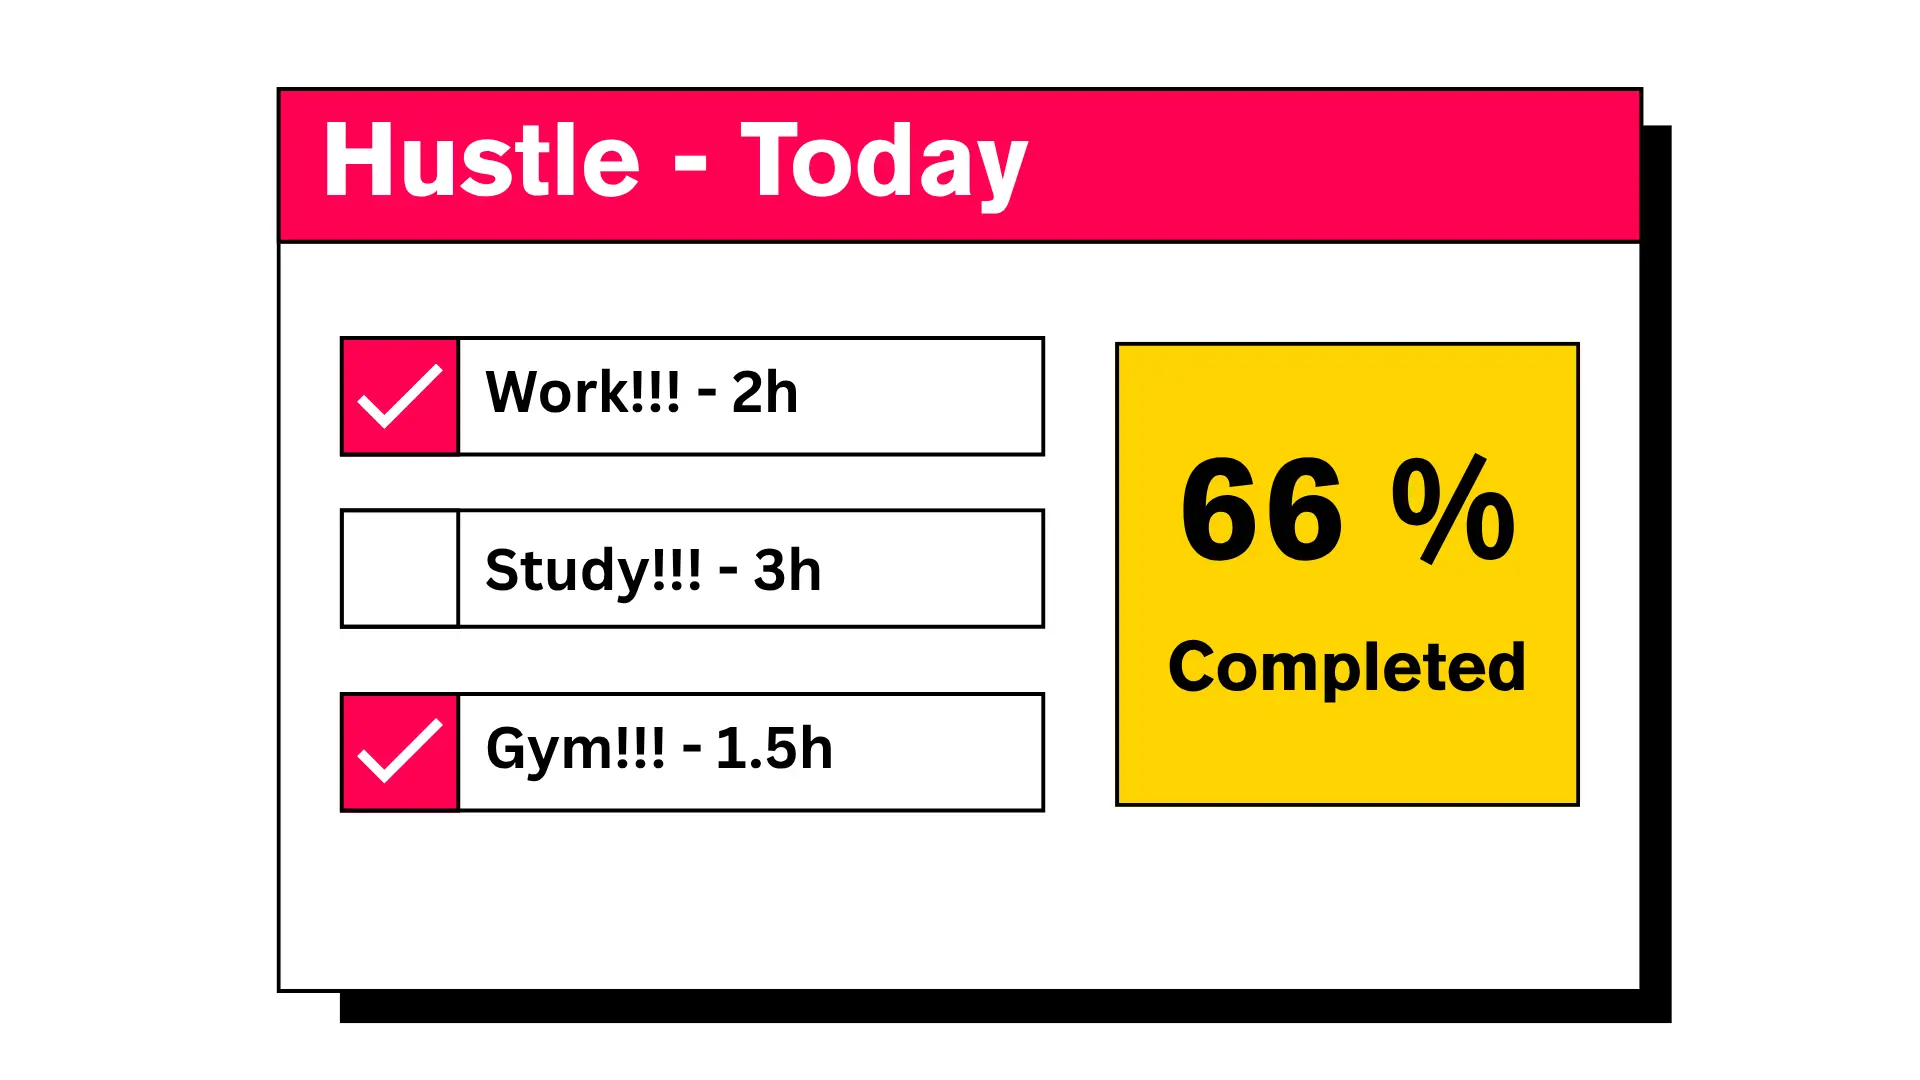
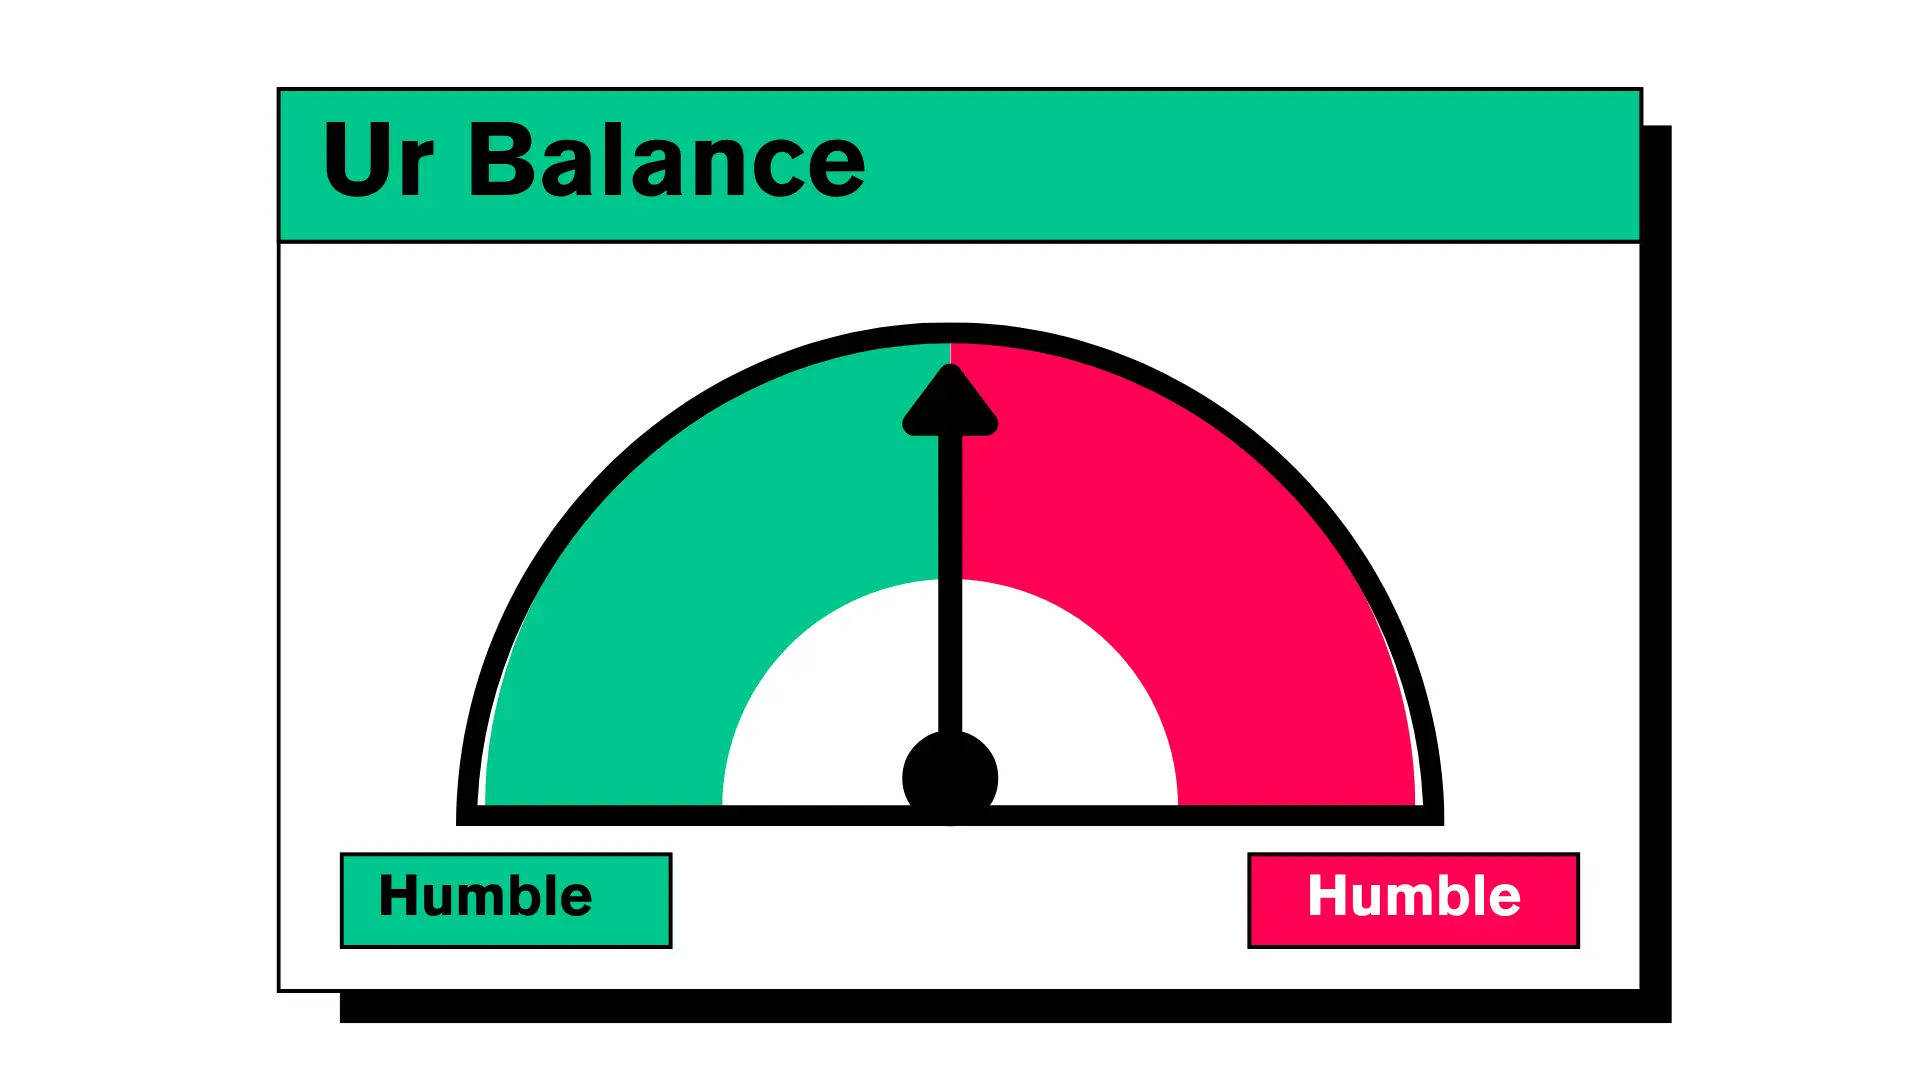
docs: tambah emoji di README, hapus em dash + commit perubahan tertunda
- README: emoji di semua heading section, ganti — jadi -
- hapus SVG default Next.js (file/globe/next/vercel/window)
- update icon.svg dan cover features 2.webp

diff --git a/README.md b/README.md
@@ -1,36 +1,36 @@
-# Purrpose
+# 🐾 Purrpose
 
 > Track your hustle. Honor your humble. Balance is the ultimate productivity hack.
 
 **Try it live:** [purrpose.mhmdfjr.com](https://purrpose.mhmdfjr.com)
 
 Purrpose is a gamified productivity web app. It splits your daily tasks into two
-categories — **Hustle** (work, study, build) and **Humble** (rest, reflection,
-recharge) — and rewards you for keeping them in **balance**, not for grinding
+categories - **Hustle** (work, study, build) and **Humble** (rest, reflection,
+recharge) - and rewards you for keeping them in **balance**, not for grinding
 yourself into the ground. Unfinished tasks are never punished; they simply roll
 over with a friendly nudge.
 
 ---
 
-## Screenshots
+## 📸 Screenshots
 
-### Home — your daily Hustle & Humble boards
+### 🏠 Home: your daily Hustle & Humble boards
 
 ![Purrpose Home page showing daily Hustle and Humble task boards](public/images/screenshot-home.webp)
 
-### Report — scores, charts & weekly balance
+### 📊 Report: scores, charts & weekly balance
 
 ![Purrpose Report page with score cards, charts and task breakdown](public/images/screenshot-report.webp)
 
-### Leaderboard — city ranks & badges
+### 🏆 Leaderboard: city ranks & badges
 
 ![Purrpose Leaderboard page with city ranking table and Gold Silver Bronze podium](public/images/screenshot-leaderboard.webp)
 
 ---
 
-## For Users
+## 🙌 For Users
 
-### How it works — 3 steps
+### 🚀 How it works: 3 steps
 
 1. **Add a task, mark it done.** Pick a category (Hustle/Humble), a level
    1–5, and a duration. Done = score of `level × duration` added instantly.
@@ -40,36 +40,36 @@ over with a friendly nudge.
 3. **Climb the leaderboard.** Weekly city-based groups (~15 people). Top 3 earn
    collectible **Gold / Silver / Bronze** badges.
 
-### Key features
+### ✨ Key features
 
-- **Task management** — create, edit, complete, and delete daily tasks with
+- **Task management** - create, edit, complete, and delete daily tasks with
   level (1–5) and duration tracking
-- **Fair scoring** — points from intensity × duration, with anti-grind daily
+- **Fair scoring** - points from intensity × duration, with anti-grind daily
   caps (16h per task, 24h per day)
-- **Daily & weekly reports** — charts for task distribution, score breakdown,
+- **Daily & weekly reports** - charts for task distribution, score breakdown,
   and balance metrics
-- **AI suggestions** — personalized weekly tips, clearly labeled as reference
+- **AI suggestions** - personalized weekly tips, clearly labeled as reference
   (not medical advice)
-- **City leaderboards** — weighted scoring that factors in balance and
+- **City leaderboards** - weighted scoring that factors in balance and
   completion rate, not just raw points
-- **Dark mode, PWA-ready** — installable, works offline-first UI with theme
+- **Dark mode, PWA-ready** - installable, works offline-first UI with theme
   toggle
 
-### FAQ
+### ❓ FAQ
 
 - **Am I punished for unfinished tasks?** No. They are marked "have no time"
-  and excluded from scoring — Purrpose measures what you did, not what you
+  and excluded from scoring - Purrpose measures what you did, not what you
   didn't.
 - **Is my data private?** Your tasks are visible only to you. Leaderboards show
   only your display name, city, and score.
 - **Does it cost anything?** The app is free and
-  [open source (MIT)](LICENSE) — you can even self-host it (see below).
+  [open source (MIT)](LICENSE) - you can even self-host it (see below).
 
 ---
 
-## For Developers
+## 🛠 For Developers
 
-### Tech stack
+### 🧱 Tech stack
 
 | Layer        | Technology                                        |
 | ------------ | ------------------------------------------------- |
@@ -80,30 +80,29 @@ over with a friendly nudge.
 | **Testing**  | Vitest, Firebase Rules Unit Testing               |
 | **Deploy**   | Vercel (frontend) + Firebase (backend)            |
 
-### Prerequisites
+## 🏁 Getting Started
+
+### 📋 Prerequisites
 
 - Node.js 20+
 - A Firebase project (enable Authentication, Firestore, Cloud Functions)
-- API keys: [ip2location.io](https://www.ip2location.io/) (free),
-  [Google Gemini](https://ai.google.dev/) (free tier)
+- API keys: [ip2location.io](https://www.ip2location.io/) (free), [Google Gemini](https://ai.google.dev/) (free tier)
 
-### Quick start
+### 📦 Installation
 
 ```bash
 git clone https://github.com/mhmdfjr/purrpose.git
 cd purrpose
 npm install
-cp .env.example .env.local   # then fill in the values below
-npm run dev                  # open http://localhost:3000
 ```
 
-Run with Firebase emulators (Auth, Firestore, Functions) instead of cloud:
+### 🔑 Environment Variables
+
+Copy `.env.example` to `.env.local` and fill in the values:
 
 ```bash
-npm run emulators:build
+cp .env.example .env.local
 ```
-
-### Environment variables
 
 | Variable                                   | Description                                 |
 | ------------------------------------------ | ------------------------------------------- |
@@ -120,66 +119,42 @@ npm run emulators:build
 
 See `.env.example` for the full list including optional App Check and emulator variables.
 
-### Scripts
+### 💻 Development
 
-| Command                  | What it does                                     |
-| ------------------------ | ------------------------------------------------ |
-| `npm run dev`            | Start the Next.js dev server                     |
-| `npm run build` / `start`| Production build / serve it                      |
-| `npm run lint`           | Run ESLint                                       |
-| `npm run type-check`     | Run `tsc --noEmit`                               |
-| `npm test`               | Run all Vitest suites                            |
-| `npm run test:unit`      | Unit tests only (excludes Firestore rules tests) |
-| `npm run test:rules`     | Firestore security rules tests only              |
-| `npm run emulators`      | Start Firebase emulators                         |
-| `npm run emulators:build`| Build functions, then start emulators            |
+Start the Next.js dev server:
 
-### Project structure
-
-```text
-src/app/          Next.js App Router — (auth), (app), public landing
-functions/        Cloud Functions — scoring, caps, weekly cycles, badges
-shared/           Types & constants shared by web + functions
-tests/            Vitest suites, incl. Firestore rules tests
-public/images/    Static assets & README screenshots
-PRD.md, ARCHITECTURE.md, DATABASE.md, API.md, DESIGN.md, ROADMAP.md, TASKS.md
+```bash
+npm run dev
 ```
 
-> **Architecture rule:** never write task score/status fields directly from the
-> client — all score mutations must go through callable functions (see
-> [API.md](API.md)). Don't change scoring formulas or Firestore schema without
-> updating the docs in the same commit.
+To run with Firebase emulators (Auth, Firestore, Functions):
 
-### Deployment
+```bash
+npm run emulators:build
+```
 
-- **Frontend (Vercel):** push to `main` for auto-deploys. Cron jobs for task
-  cutover and weekly cycles are configured in `vercel.json`.
-- **Backend (Firebase):**
+Open [http://localhost:3000](http://localhost:3000).
+
+## 🧪 Testing
+
+```bash
+npm test              # Run all tests
+npm run test:unit     # Unit tests only
+npm run test:rules    # Firestore security rules tests
+```
+
+## 🚢 Deployment
+
+### 🌐 Frontend (Vercel)
+
+Push to `main` for Vercel auto-deploys. Cron jobs for task cutover and weekly cycles are configured in `vercel.json`.
+
+### 🔥 Backend (Firebase)
 
 ```bash
 firebase deploy --only functions,firestore:rules,firestore:indexes
 ```
 
-### Documentation
+## 📄 License
 
-| Document                           | Description                            |
-| ---------------------------------- | -------------------------------------- |
-| [PRD.md](PRD.md)                   | Product Requirements Document          |
-| [ARCHITECTURE.md](ARCHITECTURE.md) | System architecture & design decisions |
-| [DATABASE.md](DATABASE.md)         | Firestore schema & indexes             |
-| [API.md](API.md)                   | API contracts                          |
-| [DESIGN.md](DESIGN.md)             | UI/UX design system                    |
-| [ROADMAP.md](ROADMAP.md)           | Milestone roadmap                      |
-| [TASKS.md](TASKS.md)               | Task tracking                          |
-
-### Contributing
-
-1. Fork the repo and create a branch (`feat/...` or `fix/...`).
-2. Follow the docs above — especially the architecture rule on scoring.
-3. Run `npm run type-check`, `npm run lint`, and `npm test` before pushing.
-4. Open a pull request against `main` with a clear description and screenshots
-   for UI changes.
-
-### License
-
-[MIT](LICENSE) — free for personal and commercial use.
+[MIT](LICENSE)
